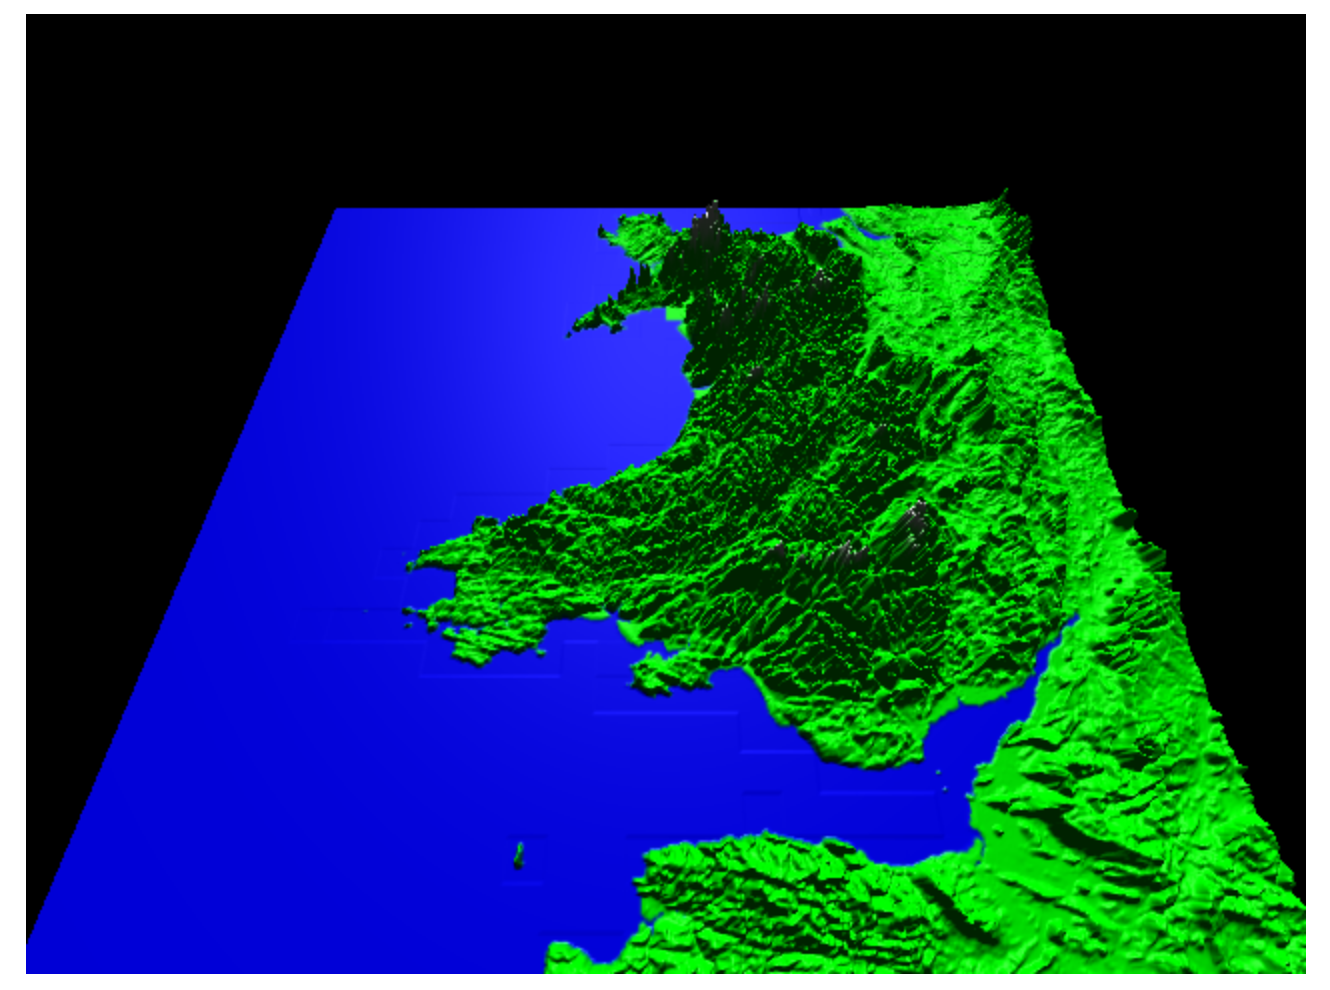
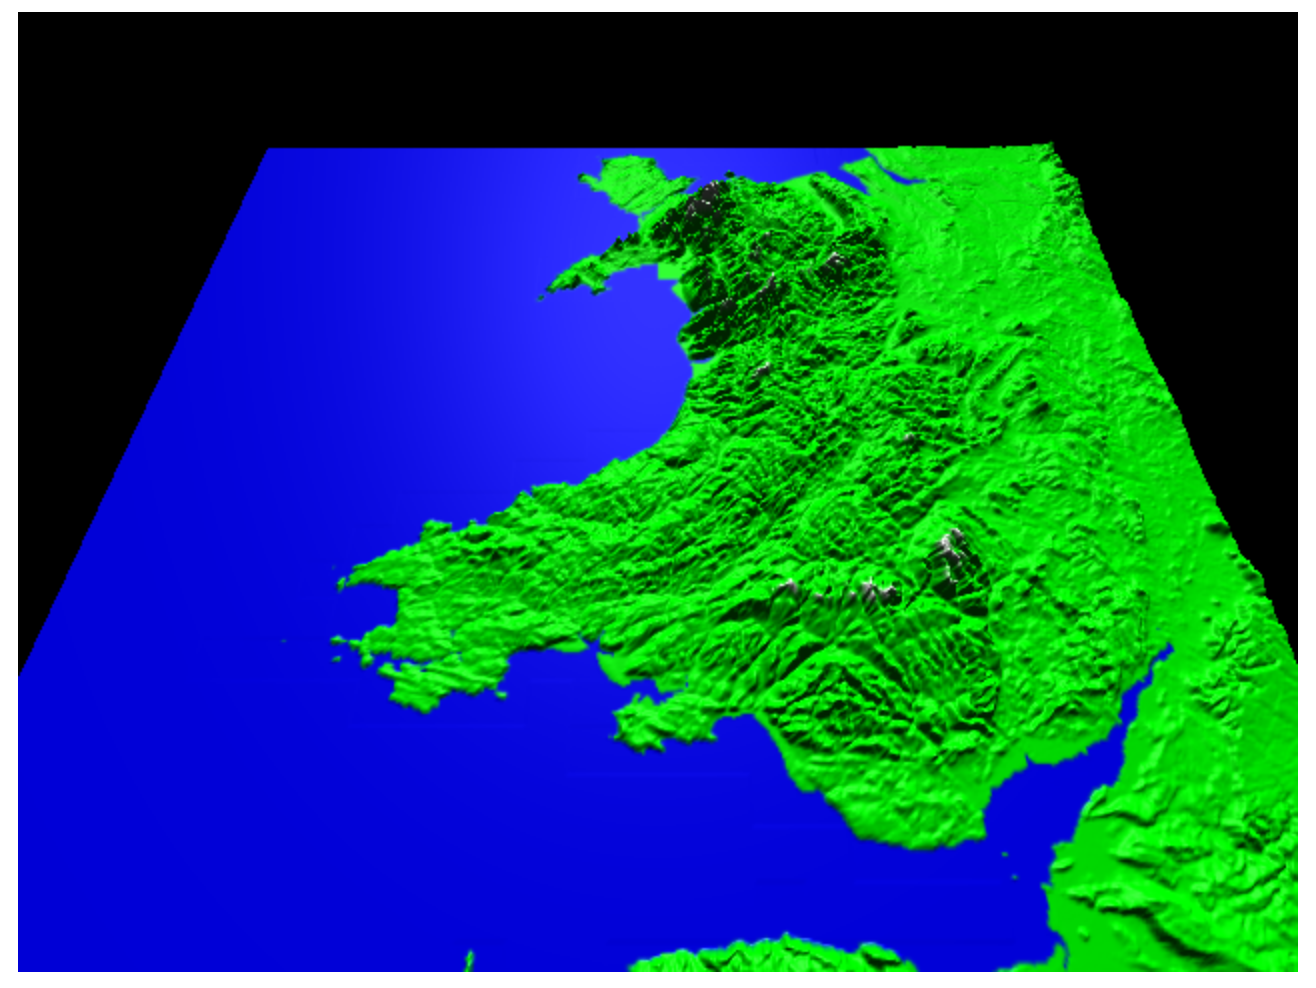
fix width/height scaling

diff --git a/3d/threejs/wales-terrain/main.js b/3d/threejs/wales-terrain/main.js
@@ -2,7 +2,7 @@ var renderer = new THREE.WebGLRenderer({canvas:document.querySelector("#threeCan
 renderer.setSize( 640, 480 );
 
 var camera = new THREE.PerspectiveCamera( 75, 640 / 480, 0.1, 100000 );
-camera.position.set(0, -3500, 6000);
+camera.position.set(0, -8000, 15000);
 camera.up = new THREE.Vector3(0,0,1);
 camera.lookAt(new THREE.Vector3(5000, 5000, 1000));
 
@@ -15,7 +15,7 @@ var scene = new THREE.Scene();
 		console.log("got json");
 		var div = 10;
 
-		var geometry = new THREE.PlaneGeometry(10000, 10000, (6000 / div)-1, (6000 / div)-1);
+		var geometry = new THREE.PlaneGeometry(30000, 30000, (6000 / div)-1, (6000 / div)-1);
 		console.log("created geometry");
 
 		for (var i = 0, l = geometry.vertices.length; i < l; i++) {
